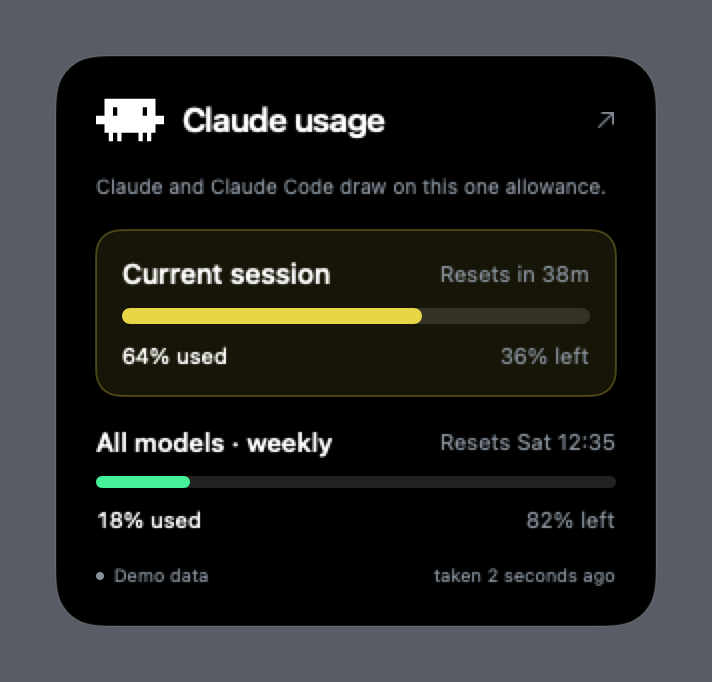
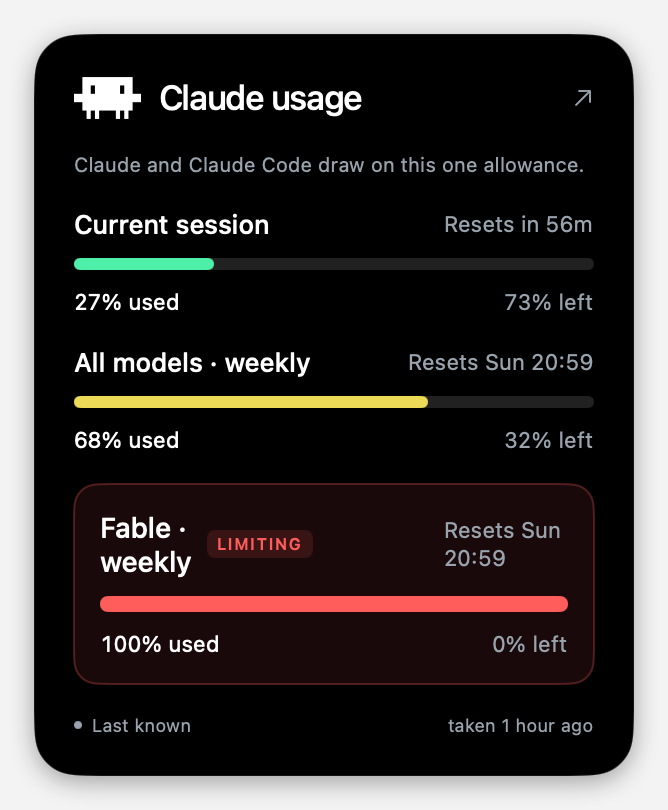
Replace the demo screenshots with the app in its real surroundings
The two notch pictures in the README were captured while demo mode still existed:
one carried a DEMO badge, the other a "Demo data" footer, and their numbers were
invented. Demo mode was removed before 1.0.0, so the README was advertising a mode
the app cannot produce and figures no account ever reported.

Both are now real captures of the shipped build, composited by Scripts/notch-mockup.swift
onto the top of a Mac display with the real menu bar across it. The desktop under
that bar is generated rather than copied: the Mac it was shot on wears Apple's Big
Sur wallpaper, which is not this project's to redistribute. Its colours are sampled
from the captured bar so the two meet without a seam.

The card reads "Last known" rather than "Live" because that is what the app
truthfully showed: the saved Claude Code login expired earlier the same day, and Brim
only ever reads that login, so it cannot renew it. Labelling a cached reading as live
is the exact lie CONTRIBUTING forbids.

diff --git a/Scripts/notch-mockup.swift b/Scripts/notch-mockup.swift
@@ -1,0 +1,200 @@
+// Draws the marketing shot of the notch: the top of a Mac display, with the real menu
+// bar across it and the notch hanging on its left edge.
+//
+//   MENUBAR=menubar.png swift Scripts/notch-mockup.swift <notch-capture.png> <out.png>
+//
+// Only the top band of the display is in frame. The top, left and right edges are
+// visible and the bottom runs off the picture, which is what makes it read as part of a
+// screen rather than a floating slab. Capture the menu bar full width, at the display's
+// own scale:
+//
+//   screencapture -x -R0,0,<screen points wide>,25 -t png menubar.png
+//
+// The notch itself is a real capture rather than a redrawing, so the rings, the
+// percentages and the shape are whatever the app actually put on screen. Capture it on
+// its own, with transparency and no drop shadow, then click the notch:
+//
+//   screencapture -w -o -t png notch.png
+//
+// The hover card is captured the same way, while hovering a ring, and rendered with
+// --card. Numbers in both are read from real accounts. Never stage them: a picture of
+// invented usage is the same lie as an invented reading.
+//
+// Everything around it is generated here, so no part of anyone's desktop, and no
+// Apple artwork, ends up in the picture.
+import AppKit
+
+let args = CommandLine.arguments
+// --card renders the hover card on the same neutral ground instead of a display corner,
+// so the two pictures sit together without looking like they came from two places.
+let cardMode = args.contains("--card")
+let positional = args.dropFirst().filter { !$0.hasPrefix("--") }
+guard positional.count == 2 else {
+    FileHandle.standardError.write("usage: notch-mockup.swift [--card] <capture.png> <out.png>\n".data(using: .utf8)!)
+    exit(2)
+}
+let inputPath = positional[positional.startIndex]
+let outputPath = positional[positional.index(after: positional.startIndex)]
+// The menu bar is a real capture too. Drawing a facsimile would mean inventing a
+// clock, a battery level and a set of status items, and the point of this picture is
+// that it is the app in its actual surroundings.
+let menuBarPath = ProcessInfo.processInfo.environment["MENUBAR"]
+let menuBar = menuBarPath.flatMap { NSImage(contentsOfFile: $0) }
+guard let notch = NSImage(contentsOfFile: inputPath) else {
+    FileHandle.standardError.write("cannot read \(inputPath)\n".data(using: .utf8)!)
+    exit(1)
+}
+
+let page = NSColor(calibratedWhite: 0.94, alpha: 1)
+
+// The card needs no display around it: it is a panel the app floats over whatever is
+// behind it, so a plain ground and a shadow is the honest presentation.
+if cardMode {
+    let margin: CGFloat = 34
+    let width = notch.size.width * 2, height = notch.size.height * 2
+    guard let rep = NSBitmapImageRep(bitmapDataPlanes: nil,
+                                     pixelsWide: Int(width + margin * 2), pixelsHigh: Int(height + margin * 2),
+                                     bitsPerSample: 8, samplesPerPixel: 4, hasAlpha: true,
+                                     isPlanar: false, colorSpaceName: .deviceRGB,
+                                     bytesPerRow: 0, bitsPerPixel: 0) else { exit(1) }
+    let nsCtx = NSGraphicsContext(bitmapImageRep: rep)!
+    NSGraphicsContext.saveGraphicsState()
+    NSGraphicsContext.current = nsCtx
+    let ctx = nsCtx.cgContext
+    ctx.setFillColor(page.cgColor)
+    ctx.fill(CGRect(x: 0, y: 0, width: width + margin * 2, height: height + margin * 2))
+    ctx.saveGState()
+    ctx.setShadow(offset: CGSize(width: 0, height: -6), blur: 26,
+                  color: NSColor(calibratedWhite: 0, alpha: 0.34).cgColor)
+    notch.draw(in: CGRect(x: margin, y: margin, width: width, height: height),
+               from: CGRect(origin: .zero, size: notch.size), operation: .sourceOver, fraction: 1)
+    ctx.restoreGState()
+    NSGraphicsContext.restoreGraphicsState()
+    guard let png = rep.representation(using: .png, properties: [:]) else { exit(1) }
+    try! png.write(to: URL(fileURLWithPath: outputPath))
+    print("wrote \(outputPath) at \(rep.pixelsWide)x\(rep.pixelsHigh)")
+    exit(0)
+}
+
+let scale: CGFloat = 2
+let canvas = CGSize(width: 1440 * scale, height: 330 * scale)
+let bezel: CGFloat = 11 * scale     // the sliver of hardware around the picture
+let inset: CGFloat = 18 * scale     // how far the display sits inside the frame
+let corner: CGFloat = 26 * scale
+let bleed: CGFloat = 240 * scale    // how far the display runs off the bottom
+
+// Drawing into a bitmap of a stated size, rather than lockFocus on an NSImage, keeps
+// the output at exactly the pixel dimensions asked for on any display.
+guard let rep = NSBitmapImageRep(bitmapDataPlanes: nil,
+                                 pixelsWide: Int(canvas.width), pixelsHigh: Int(canvas.height),
+                                 bitsPerSample: 8, samplesPerPixel: 4, hasAlpha: true,
+                                 isPlanar: false, colorSpaceName: .deviceRGB,
+                                 bytesPerRow: 0, bitsPerPixel: 0) else { exit(1) }
+let nsCtx = NSGraphicsContext(bitmapImageRep: rep)!
+NSGraphicsContext.saveGraphicsState()
+NSGraphicsContext.current = nsCtx
+let ctx = nsCtx.cgContext
+
+// The page behind the display. Light and neutral, so the shot drops onto a README or a
+// portfolio page without dragging a colour scheme along with it.
+ctx.setFillColor(page.cgColor)
+ctx.fill(CGRect(origin: .zero, size: canvas))
+
+// The display, positioned so only its top left corner is in frame.
+let screen = CGRect(x: inset + bezel,
+                    y: -bleed,
+                    width: canvas.width - (inset + bezel) * 2,
+                    height: canvas.height - inset - bezel + bleed)
+let outer = screen.insetBy(dx: -bezel, dy: -bezel)
+
+ctx.saveGState()
+ctx.setShadow(offset: CGSize(width: 5 * scale, height: -5 * scale), blur: 22 * scale,
+              color: NSColor(calibratedWhite: 0, alpha: 0.30).cgColor)
+ctx.addPath(CGPath(roundedRect: outer, cornerWidth: corner + bezel * 0.7,
+                   cornerHeight: corner + bezel * 0.7, transform: nil))
+ctx.setFillColor(NSColor(calibratedWhite: 0.10, alpha: 1).cgColor)
+ctx.fillPath()
+ctx.restoreGState()
+
+// The wallpaper. Generated, so nothing of Apple's ships in this file.
+let screenPath = CGPath(roundedRect: screen, cornerWidth: corner, cornerHeight: corner, transform: nil)
+ctx.saveGState()
+ctx.addPath(screenPath)
+ctx.clip()
+// The desktop. The menu bar is translucent, so it carries the colour of whatever was
+// behind it when it was captured. A wallpaper invented independently of that leaves a
+// visible seam along the bottom of the bar, so the top of this one is sampled from the
+// bar itself and then falls away into shadow.
+func sample(_ image: NSImage?, atFraction x: CGFloat) -> NSColor? {
+    guard let tiff = image?.tiffRepresentation, let rep = NSBitmapImageRep(data: tiff) else { return nil }
+    let px = min(rep.pixelsWide - 1, max(0, Int(CGFloat(rep.pixelsWide) * x)))
+    return rep.colorAt(x: px, y: rep.pixelsHigh - 1)?.usingColorSpace(.deviceRGB)
+}
+
+let sampled = [0.04, 0.5, 0.96].compactMap { sample(menuBar, atFraction: $0) }
+if sampled.count == 3 {
+    // Across, in the bar's own colours, so the seam disappears.
+    if let across = CGGradient(colorsSpace: CGColorSpaceCreateDeviceRGB(),
+                               colors: sampled.map { $0.cgColor } as CFArray, locations: [0, 0.5, 1]) {
+        ctx.drawLinearGradient(across, start: CGPoint(x: screen.minX, y: 0),
+                               end: CGPoint(x: screen.maxX, y: 0), options: [])
+    }
+    // And down into shadow, which is what a wallpaper does below its sky.
+    if let down = CGGradient(colorsSpace: CGColorSpaceCreateDeviceRGB(),
+                             colors: [NSColor(calibratedWhite: 0, alpha: 0).cgColor,
+                                      NSColor(calibratedWhite: 0.04, alpha: 0.84).cgColor] as CFArray,
+                             locations: [0, 1]) {
+        ctx.drawLinearGradient(down, start: CGPoint(x: 0, y: screen.maxY),
+                               end: CGPoint(x: 0, y: screen.maxY - canvas.height * 1.2), options: [])
+    }
+} else {
+    let colours = [
+        NSColor(calibratedRed: 0.16, green: 0.18, blue: 0.32, alpha: 1).cgColor,
+        NSColor(calibratedRed: 0.33, green: 0.24, blue: 0.37, alpha: 1).cgColor,
+        NSColor(calibratedRed: 0.64, green: 0.41, blue: 0.35, alpha: 1).cgColor
+    ]
+    if let gradient = CGGradient(colorsSpace: CGColorSpaceCreateDeviceRGB(),
+                                 colors: colours as CFArray, locations: [0, 0.55, 1]) {
+        ctx.drawLinearGradient(gradient,
+                               start: CGPoint(x: screen.minX, y: screen.maxY),
+                               end: CGPoint(x: screen.maxX, y: screen.minY), options: [])
+    }
+}
+
+// The menu bar, as captured. It is drawn at the width it was taken at, so the clock,
+// the status items and the menu titles keep their real proportions.
+if let menuBar {
+    let height = screen.width * (menuBar.size.height / menuBar.size.width)
+    menuBar.draw(in: CGRect(x: screen.minX, y: screen.maxY - height, width: screen.width, height: height),
+                 from: CGRect(origin: .zero, size: menuBar.size), operation: .sourceOver, fraction: 1)
+} else {
+    // Without a capture, a plain translucent strip. Never a drawn imitation of one.
+    ctx.setFillColor(NSColor(calibratedWhite: 0, alpha: 0.22).cgColor)
+    ctx.fill(CGRect(x: screen.minX, y: screen.maxY - 25 * scale, width: screen.width, height: 25 * scale))
+}
+ctx.restoreGState()
+
+// The notch, flush against the display's left edge. Its own shape curves out into that
+// edge, so any gap here would look like a mistake.
+//
+// Sized as a share of the frame rather than at the capture's own size. A retina capture
+// reports its size in points, which would draw it at half the pixels it contains and
+// leave it a detail in the corner of a picture that exists to show it.
+let aspect = notch.size.width / notch.size.height
+let notchHeight = canvas.height * 0.80
+let target = CGRect(x: screen.minX,
+                    y: screen.maxY - 25 * scale - notchHeight,
+                    width: notchHeight * aspect,
+                    height: notchHeight)
+ctx.saveGState()
+ctx.addPath(screenPath)
+ctx.clip()
+notch.draw(in: target, from: CGRect(origin: .zero, size: notch.size),
+           operation: .sourceOver, fraction: 1)
+ctx.restoreGState()
+
+NSGraphicsContext.restoreGraphicsState()
+
+guard let png = rep.representation(using: .png, properties: [:]) else { exit(1) }
+try! png.write(to: URL(fileURLWithPath: outputPath))
+print("wrote \(outputPath) at \(rep.pixelsWide)x\(rep.pixelsHigh)")

diff --git a/README.md b/README.md
@@ -20,10 +20,10 @@ its own. Nothing connects itself on launch, and disconnecting stops all reading.
 
 ---
 
+![The notch on the edge of a Mac screen, one ring per allowance](Docs/Screenshots/notch.png)
+
 <p align="center">
-  <img src="Docs/Screenshots/notch.png" alt="The notch on a screen edge" height="330">
-  &nbsp;&nbsp;
-  <img src="Docs/Screenshots/notch-card.png" alt="Hovering a ring shows every limit and when it resets" height="330">
+  <img src="Docs/Screenshots/notch-card.png" alt="Hovering a ring shows every limit, which one is currently limiting, and when each resets" width="330">
 </p>
 
 ## Why
@@ -39,14 +39,20 @@ weekly model limit sits at 84%, the number worth seeing is 84%.
 
 ## Install
 
-Download the latest `.dmg` from [Releases](../../releases), drag Brim to
-Applications, and open it. It lives in your menu bar, with no Dock icon unless you
-ask for one, and opens at login so the numbers are there before you think to look.
-Both of those are switches in Settings.
+[**Download Brim**](https://github.com/miichaelhanna/Brim/releases/latest/download/Brim.dmg),
+drag it to Applications, and open it. That link always serves the newest release, and
+every release is also kept under its own version on the [Releases](../../releases) page.
+
+Brim lives in your menu bar, with no Dock icon unless you ask for one, and opens at
+login so the numbers are there before you think to look. Both of those are switches in
+Settings.
 
 Releases are signed with a Developer ID and notarised by Apple, so they open without
 warnings. If macOS ever says a build is unsigned or from an unidentified developer,
 that build did not come from here, see [SECURITY.md](SECURITY.md).
+
+Requires an Apple Silicon Mac on macOS 14 or later. The released build is arm64 only,
+so it does not run on an Intel Mac.
 
 Prefer to build it yourself? `bash Scripts/build.sh`.
 
